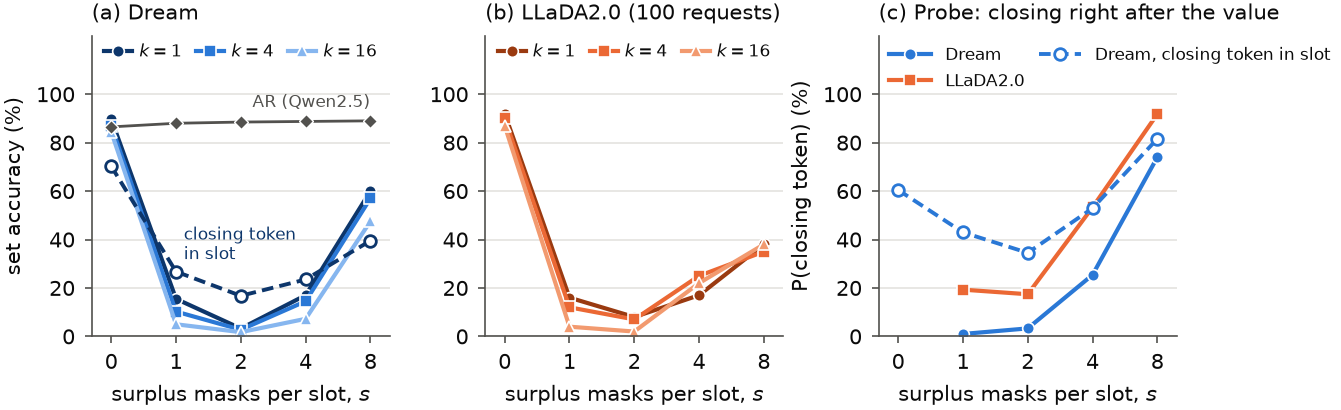
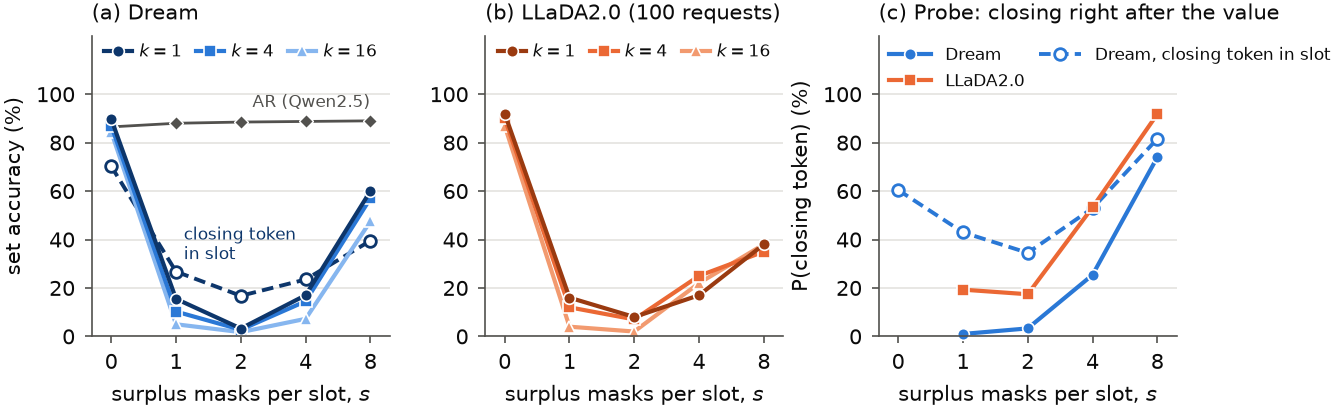
Figure 3: draw k=1 and the probe lines above coinciding markers
The LLaDA2.0 probe point at s=4 (53.3) was hidden under the hollow marker of
the closing-token-in-slot line (52.9), and k=1 points under k=4/16 where the
values coincide. Data unchanged.

Claude-Session: https://claude.ai/code/session_01TBYgNveGXYTG8y2AhtxtSN

diff --git a/scripts/paper_figures.py b/scripts/paper_figures.py
@@ -120,17 +120,18 @@ def surplus_figure(summary, out):
             ys = [y for y in ys if y is not None]
             if len(xs) < 2:
                 continue
+            z = 2.3 - 0.1 * i  # k=1 on top where points coincide
             # break the line where a surplus was not run (none since experiment E)
             seg_x, seg_y = [xs[0]], [ys[0]]
             for x, y in zip(xs[1:], ys[1:]):
                 if x != seg_x[-1] + 1:
-                    ax.plot(seg_x, seg_y, color=RAMP[model][i], linewidth=1.5)
+                    ax.plot(seg_x, seg_y, color=RAMP[model][i], linewidth=1.5, zorder=z)
                     seg_x, seg_y = [], []
                 seg_x.append(x)
                 seg_y.append(y)
-            ax.plot(seg_x, seg_y, color=RAMP[model][i], linewidth=1.5)
+            ax.plot(seg_x, seg_y, color=RAMP[model][i], linewidth=1.5, zorder=z)
             ax.plot(xs, ys, linestyle="none", marker=MARKER[k], markersize=4.2, color=RAMP[model][i],
-                    markeredgecolor="white", markeredgewidth=0.6)
+                    markeredgecolor="white", markeredgewidth=0.6, zorder=z)
             handles.append(Line2D([], [], color=RAMP[model][i], linewidth=1.5, marker=MARKER[k], markersize=4.2,
                                   markeredgecolor="white", markeredgewidth=0.6, label=f"$k={k}$"))
         if model == "dream" and v_acc:
@@ -166,7 +167,8 @@ def surplus_figure(summary, out):
     for model, label, mk in [("dream", "Dream", "o"), ("llada2", "LLaDA2.0", "s")]:
         pts = [(x, 100 * pc[model, s]) for x, s in enumerate(S) if (model, s) in pc]
         ax.plot([x for x, _ in pts], [y for _, y in pts], color=RAMP[model][1], linewidth=1.5, marker=mk,
-                markersize=4.2, markeredgecolor="white", markeredgewidth=0.6, label=label)
+                markersize=4.2, markeredgecolor="white", markeredgewidth=0.6, label=label, zorder=2.5,
+                clip_on=False)  # above the dashed line (LLaDA2.0 and the dashed line meet at s=4)
     if v_probe:
         pts = [(x, v_probe[s]) for x, s in enumerate(S) if s in v_probe]
         for seg in segments([x for x, _ in pts], [y for _, y in pts]):
